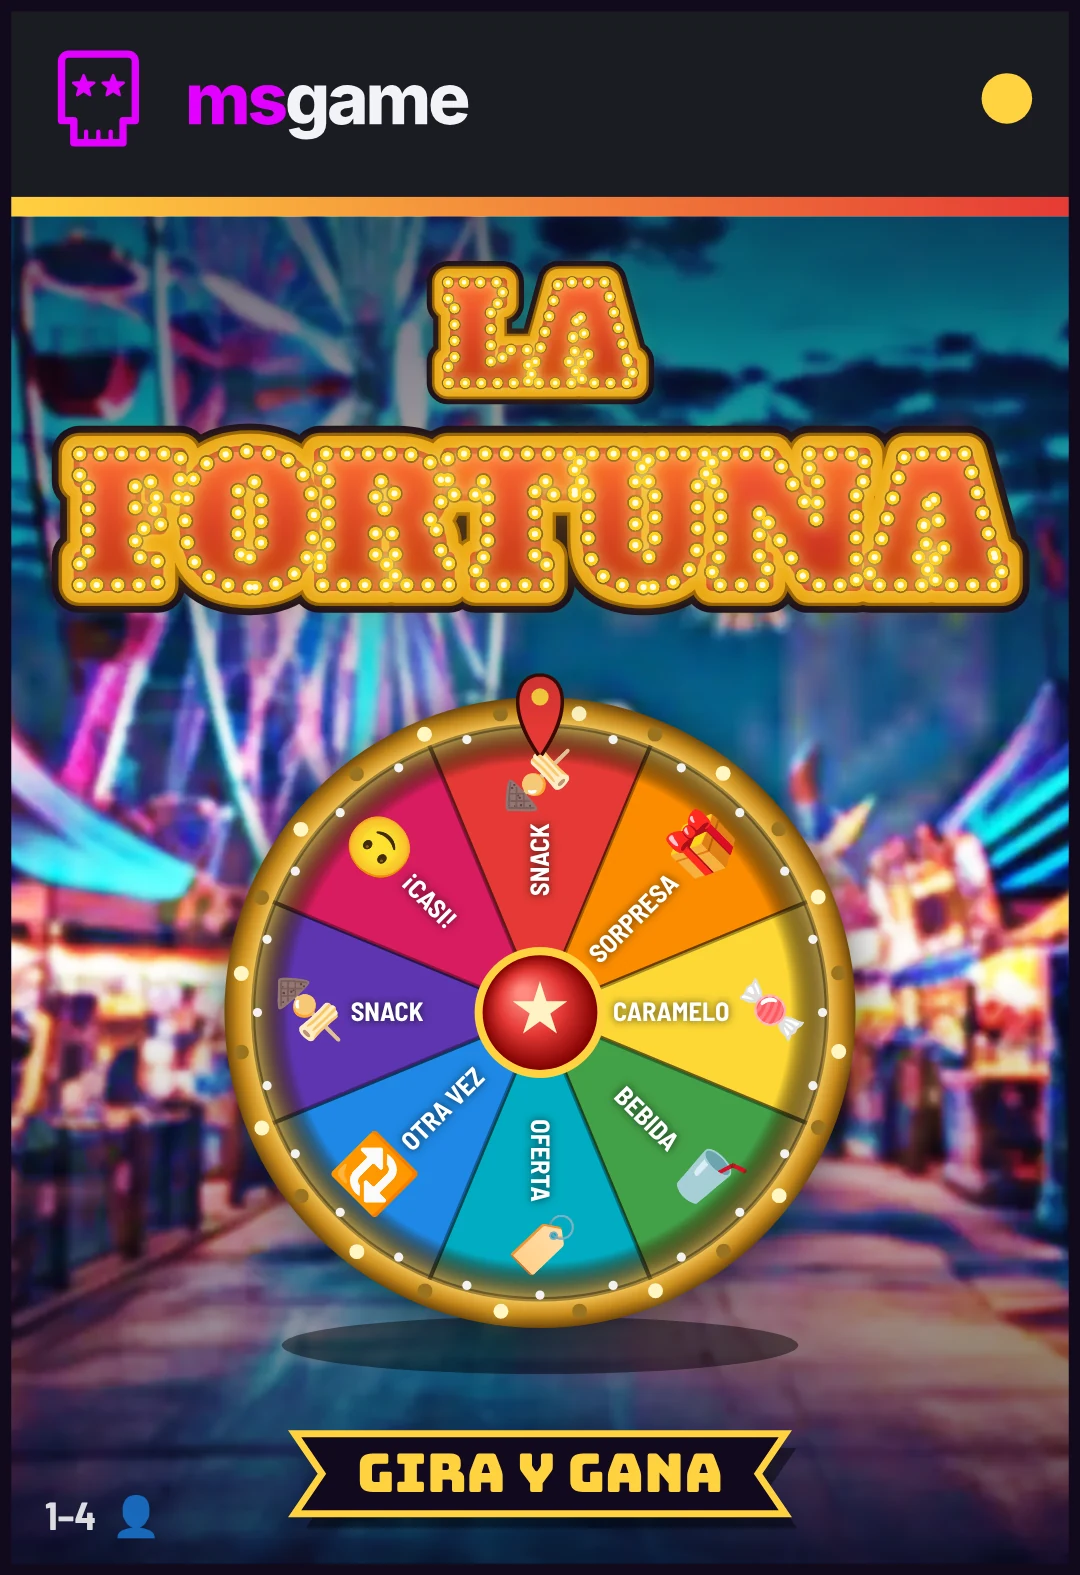
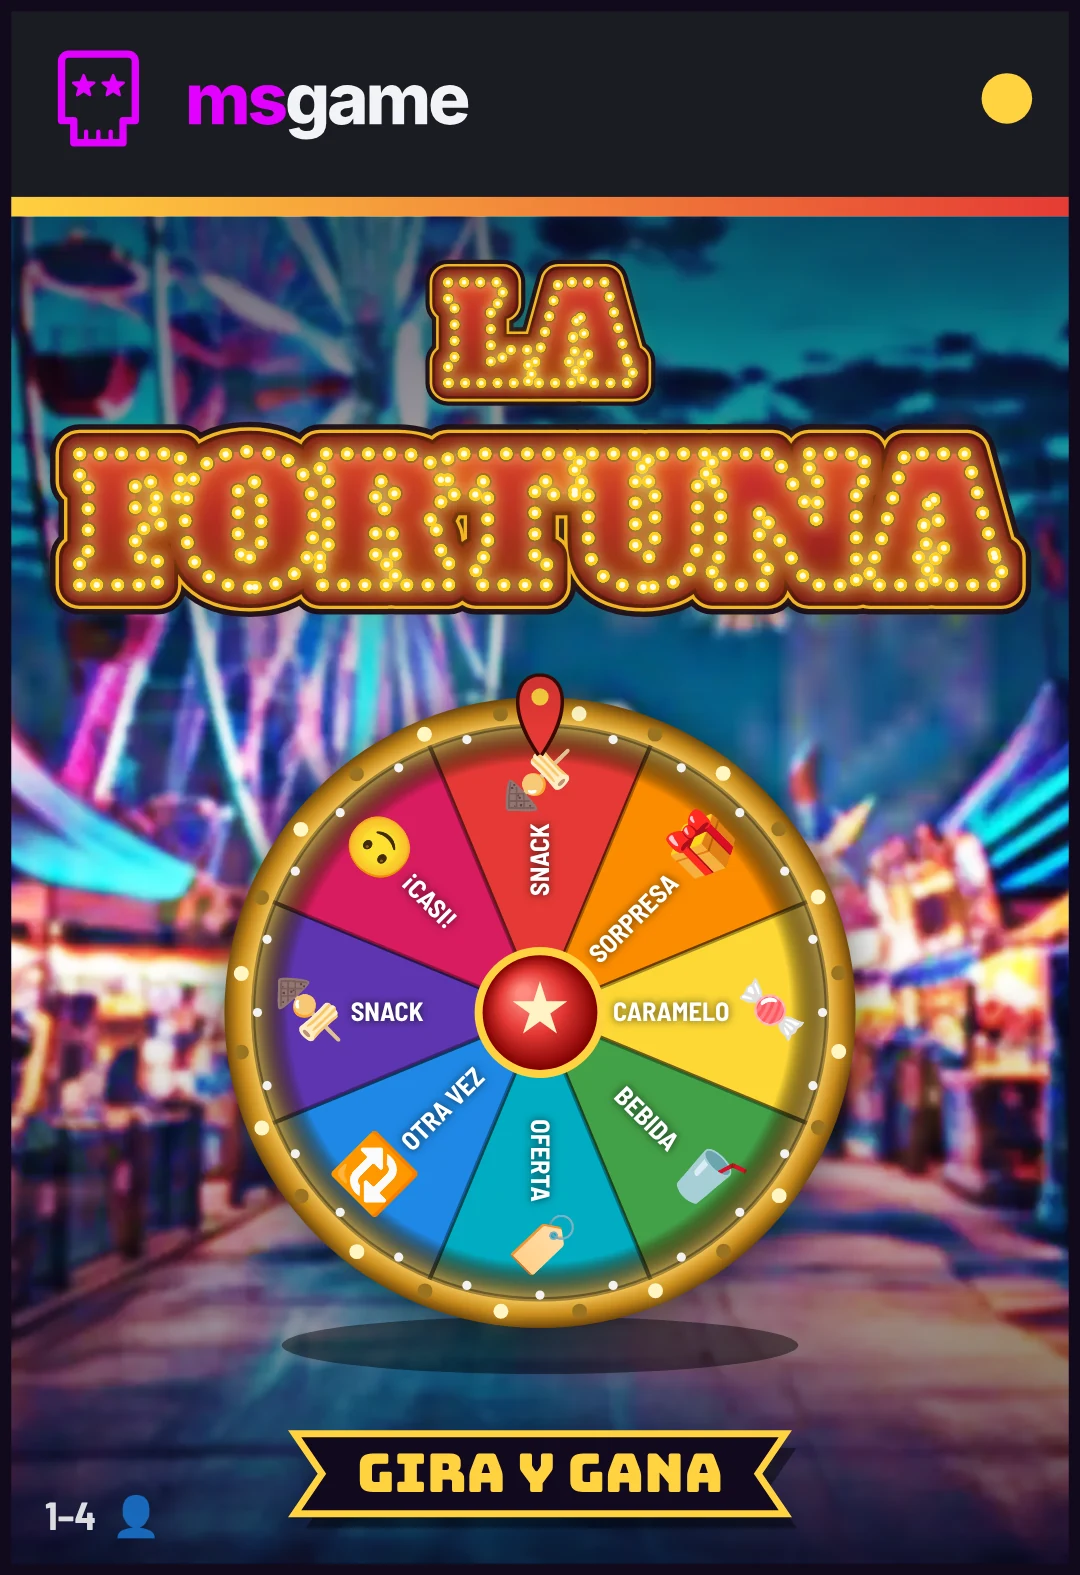
v1.6 · cartel de LA FORTUNA de la lista KLUB actualizado (rojo terciopelo)

Changed region(s): [[0.0306, 0.1556, 0.9778, 0.4044]]

diff --git a/index.html b/index.html
@@ -1,7 +1,7 @@
 <!DOCTYPE html>
 <!--
   ADPOSTER · CARTELERÍA DIGITAL — gestor de listas y displays. Apartado de AVHUB (mediaservi.com).
-  Versión v1.5. Cuatro ventanas: a la izquierda, fijas, DISPLAYS (cómo está cada pantalla, en directo) y LISTAS; en el centro el LIENZO,
+  Versión v1.6. Cuatro ventanas: a la izquierda, fijas, DISPLAYS (cómo está cada pantalla, en directo) y LISTAS; en el centro el LIENZO,
   con la vista previa en vivo, zoom y guías que se arrastran; a la derecha, las pestañas CONTENIDO · DISEÑO · TIEMPOS · DIRECTO · PUBLICAR.
   Los reproductores son las URL que se dan al kiosco: …/cine, …/klub y …/p/?l=nombre. La página del público es …/elige (se llega por QR).
   Una lista puede ser de carteles (carpetas que rotan) o una composición de escenas que se editan en el lienzo, pieza a pieza.
@@ -19,8 +19,8 @@
   <link rel="icon" href="assets/logos/adposter-icono.svg" type="image/svg+xml">
   <link rel="manifest" href="manifest.json">
   <link rel="apple-touch-icon" href="assets/logos/adposter-180.png">
-  <link rel="stylesheet" href="escena.css?v=1.5">
-  <link rel="stylesheet" href="gestor.css?v=1.5">
+  <link rel="stylesheet" href="escena.css?v=1.6">
+  <link rel="stylesheet" href="gestor.css?v=1.6">
 </head>
 <body>
   <header class="cab">
@@ -49,15 +49,15 @@
   <input type="file" id="archivo" accept="application/json,.json" hidden>
   <input type="file" id="sube-img" accept="image/png,image/jpeg,image/webp,image/gif,image/svg+xml" hidden>
   <noscript><p style="padding:2rem;color:#fff">ADPOSTER necesita JavaScript activado.</p></noscript>
-  <script src="credito.js?v=1.5"></script>
-  <script src="fallo.js?v=1.5"></script>
-  <script src="instalar.js?v=1.5"></script>
-  <script src="directo.js?v=1.5"></script>
-  <script src="qr.js?v=1.5"></script>
-  <script src="escena.js?v=1.5"></script>
-  <script src="plantillas.js?v=1.5"></script>
-  <script src="gestor.js?v=1.5"></script>
-  <script src="editor.js?v=1.5"></script>
-  <script src="gestion.js?v=1.5"></script>
+  <script src="credito.js?v=1.6"></script>
+  <script src="fallo.js?v=1.6"></script>
+  <script src="instalar.js?v=1.6"></script>
+  <script src="directo.js?v=1.6"></script>
+  <script src="qr.js?v=1.6"></script>
+  <script src="escena.js?v=1.6"></script>
+  <script src="plantillas.js?v=1.6"></script>
+  <script src="gestor.js?v=1.6"></script>
+  <script src="editor.js?v=1.6"></script>
+  <script src="gestion.js?v=1.6"></script>
 </body>
 </html>

diff --git a/gestor.js b/gestor.js
@@ -10,7 +10,7 @@
    Licencia GPL-3.0 · mediaservi.com */
 (() => {
   'use strict';
-  const VERSION = '1.5', TIPOS = ['fundido', 'zoom', 'desliza', 'cortina', 'corte'], CON_CARPETA = ['cine', 'klub'], TABS_C = ['contenido', 'diseno', 'tiempos', 'directo', 'publicar'], TABS_E = ['piezas', 'escena', 'tiempos', 'directo', 'publicar'];
+  const VERSION = '1.6', TIPOS = ['fundido', 'zoom', 'desliza', 'cortina', 'corte'], CON_CARPETA = ['cine', 'klub'], TABS_C = ['contenido', 'diseno', 'tiempos', 'directo', 'publicar'], TABS_E = ['piezas', 'escena', 'tiempos', 'directo', 'publicar'];
   const DEF = { nombre: '', fondo: '', cabecera: 18, pie: 4.5, lado: 5, alinea: 'abajo', contenido: [], anuncios: [], segundos: 8, segundosAnuncio: 8, anunciosCada: [4, 7], fundido: { tipo: 'fundido', segundos: 2.5 }, movimiento: true, llenar: false, brillo: true,
     horario: { activo: false, desde: '09:00', hasta: '23:00', dias: [1, 2, 3, 4, 5, 6, 7] }, redirige: '', formato: 'vertical', qr: { activo: false, modo: 'url', url: '', texto: '', pos: 'bd' }, cinta: { activo: false, texto: '', rss: '' }, publico: false, modo: 'carteles', escenas: [], orden: 'azar', secuencia: [], archivos: {} };
   const ESCM = p => !!p && p.modo === 'escenas', tabsDe = p => ESCM(p) ? TABS_E : TABS_C, X = () => window.ADG.ext || {};

diff --git a/sw.js b/sw.js
@@ -4,7 +4,7 @@
    · Lo que no es de este sitio (avisos, crédito, directo) y los vídeos y audios a trozos van siempre por la red.
    Para forzar una copia nueva en todos los dispositivos, sube el número de CACHE.
    Licencia GPL-3.0 · mediaservi.com */
-const PREFIJO = 'adposter-', CACHE = PREFIJO + 'v4';
+const PREFIJO = 'adposter-', CACHE = PREFIJO + 'v5';
 const BASICO = ['./', 'index.html', 'p/', 'cine/', 'klub/', 'gestor.js', 'gestor.css', 'editor.js', 'gestion.js', 'escena.js', 'escena.css', 'plantillas.js', 'player.js', 'player.css', 'directo.js', 'qr.js', 'credito.js', 'fallo.js', 'instalar.js', 'playlists.json', 'assets/manifest.json', 'manifest.json', 'assets/logos/adposter-logo.svg', 'assets/logos/adposter-icono.svg', 'assets/logos/adposter-192.png', 'assets/fonts/inter-latin-400-normal.woff2', 'assets/fonts/inter-latin-700-normal.woff2', 'assets/fonts/inter-latin-800-normal.woff2', 'assets/fonts/share-tech-mono-latin-400-normal.woff2'];   // lo mínimo para arrancar sin conexión desde la primera visita
 const FRESCO = /(\/|\.html?|\.json|\.js|\.css|\.webmanifest)$/i, TOPE = 6000;
 const clave = u => { const x = new URL(u, self.registration.scope); x.search = ''; x.hash = ''; return x.href; };

diff --git a/README.md b/README.md
@@ -4,7 +4,7 @@
 
 Es software gratuito hecho por afición: sin cuentas, sin servidor propio, sin publicidad y sin cuotas.
 
-**Versión actual: v1.5**
+**Versión actual: v1.6**
 
 ## Cómo funciona
 
@@ -114,7 +114,11 @@ Para publicar los ajustes de las listas: **Guardar playlists.json** y subir ese 
 
 En tu propio dominio: copia el repositorio, publícalo (GitHub Pages, Netlify o cualquier alojamiento estático) y pon tus carpetas en `assets/`.
 
-## Cambios de la versión actual (v1.5)
+## Cambios de la versión actual (v1.6)
+
+- Cartel de **LA FORTUNA** de la lista KLUB actualizado: rótulo en rojo terciopelo con bombillas amarillas más visibles.
+
+### v1.5
 
 - **KLUB con las carátulas de MSGAME**: la lista de muestra KLUB rota ahora las 19 carátulas de los juegos de MSGAME (carpeta `assets/msgame-caratulas/`, a tamaño de cartel FHD), en lugar de los carteles de demostración.
 - **CINE** sigue con los carteles de demostración de ADPOSTER (`assets/demo-carteles/`).
@@ -229,7 +233,7 @@ Sigue de la v0.1:
 
 ---
 
-*ADPOSTER v1.5 2026 es un proyecto hecho con ⚙ by [mediaservi.com](https://mediaservi.com)*
+*ADPOSTER v1.6 2026 es un proyecto hecho con ⚙ by [mediaservi.com](https://mediaservi.com)*
 
 ## Aviso
 
